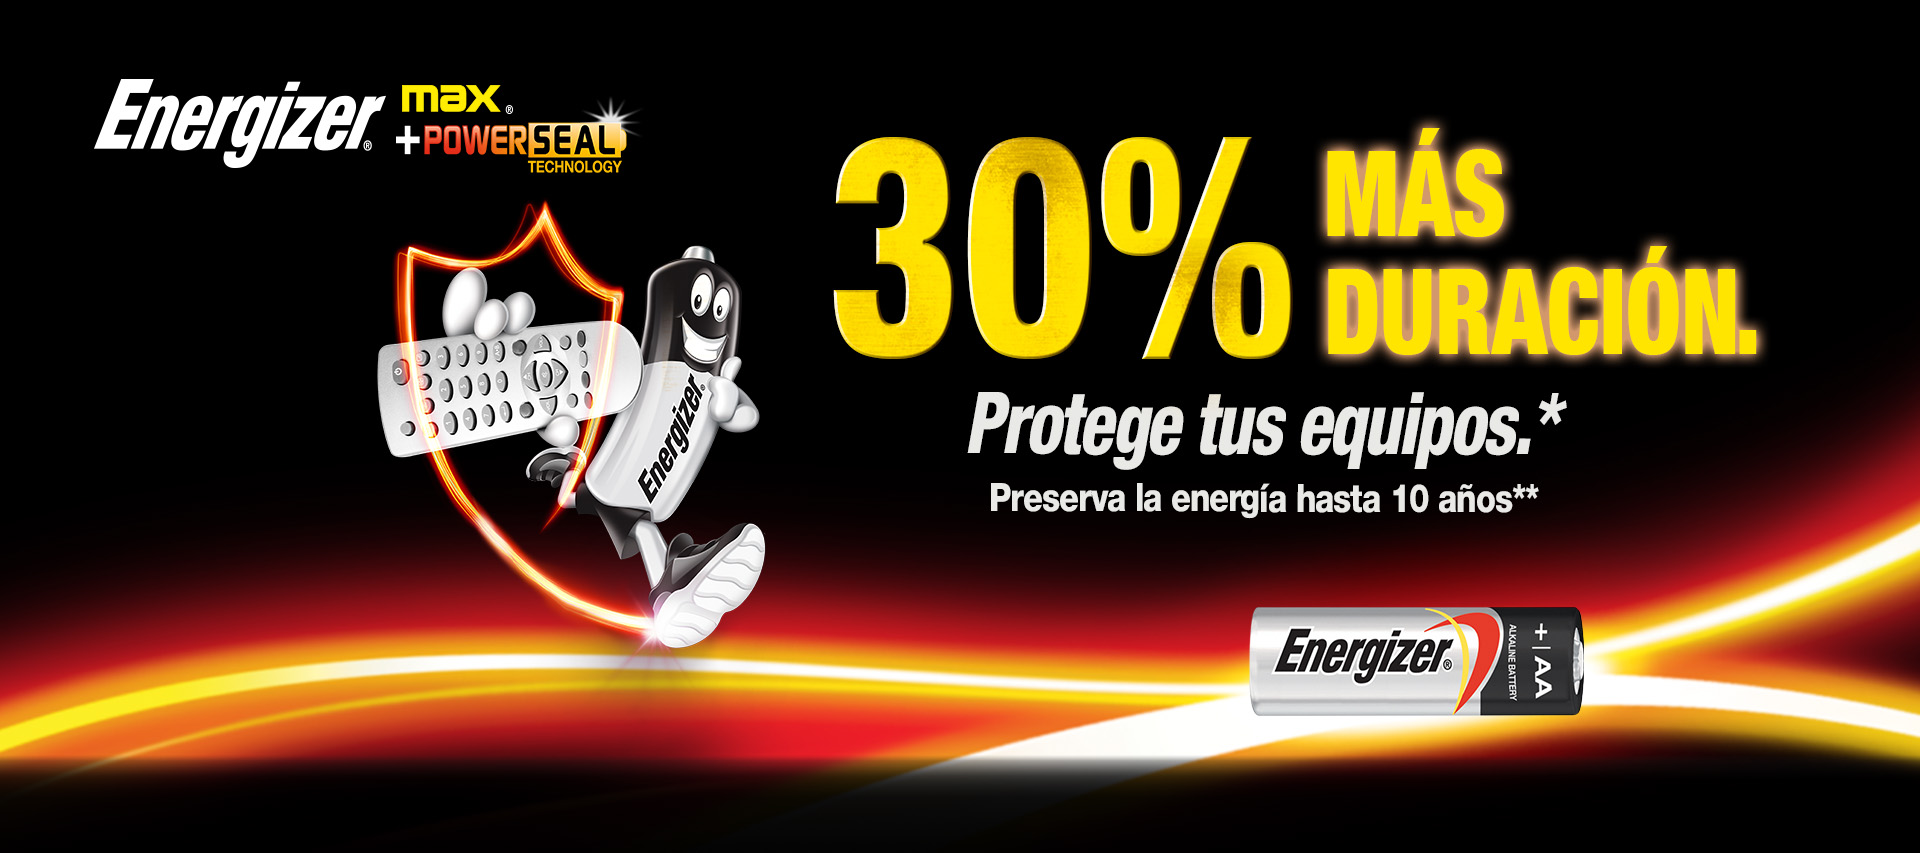
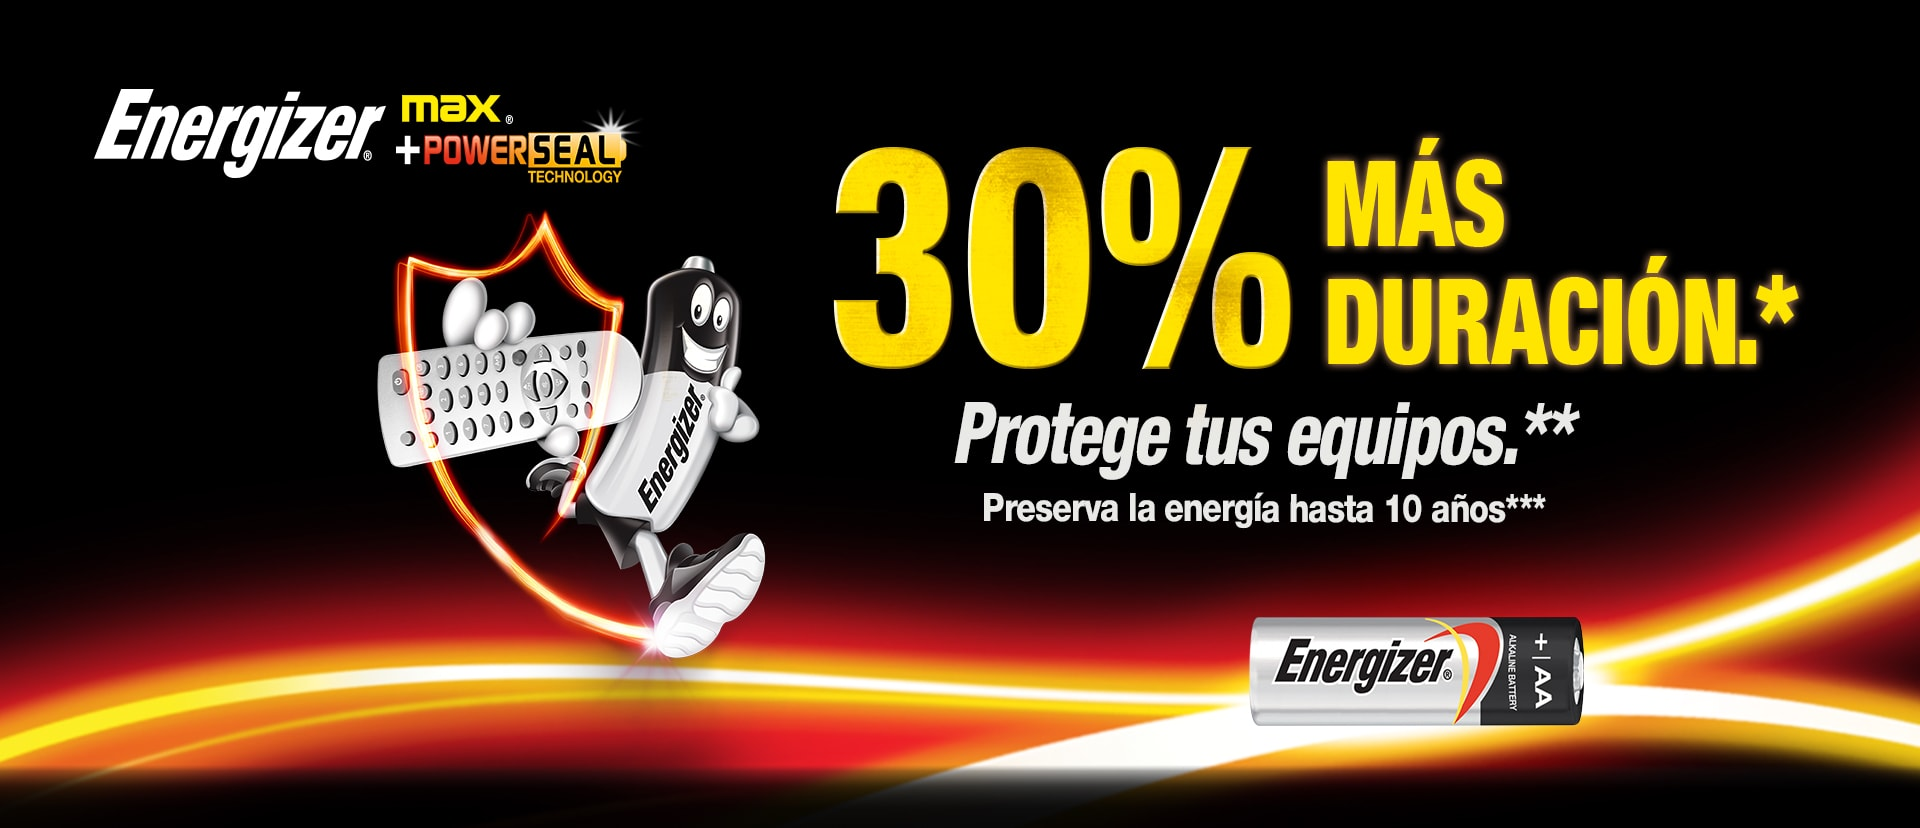
Actualización energizer

diff --git a/protected/views/campania/energizer-pilas-recargables.php b/protected/views/campania/energizer-pilas-recargables.php
@@ -46,14 +46,16 @@ $this->metaTags = "
       <a href="<?= Yii::app()->request->baseUrl ?>/pilas-recargables-energizer"><h4 style="margin-bottom: 0px;" class="btn-menu active"><span class="glyphicon glyphicon-menu-right" aria-hidden="true"></span>Línea recargable</h4></a>
     </center>
     <div class="lista" style="font-size: 17px;margin-top: 30px;line-height: 22px;">
-      <p>* Las Pilas Energizer Recargables Universal Tipo AA y AAA ahora contiene materiales de baterías recicladas.</p>
-      <p>* Se mantiene cargada hasta 1 año en almacenamiento.</p>
-      <p>* Primer Pila Recargable AA en el Mundo fabricada con baterías recicladas 4% baterías recicladas.</p>
-      <p>* Larga Duración.</p>
-      <p>* Carga hasta 1000 ciclos.</p>
-      <p>* Calidad, Confiabilidad.</p>
-      <p>* Responder en cualquier situación.</p>
-      <p>* Tiene una vida útil hasta de 5 años.</p>
+      <ul>
+        <li>Las Pilas Energizer Recargables Universal Tipo AA y AAA ahora contiene materiales de baterías recicladas.</li>
+        <li>Se mantiene cargada hasta 1 año en almacenamiento.</li>
+        <li>Primer Pila Recargable AA en el Mundo fabricada con baterías recicladas 4% baterías recicladas.</li>
+        <li>Larga Duración.</li>
+        <li>Carga hasta 1000 ciclos.</li>
+        <li>Calidad, Confiabilidad.</li>
+        <li>Responder en cualquier situación.</li>
+        <li>Tiene una vida útil hasta de 5 años.</li>
+      </ul>
     </div>
     <img style="width: 90%;margin: 35px auto 0;display: block;" src="<?= Yii::app()->request->baseUrl ?>/images/contenido/energizer/pilas-recargables/recargable-aa2.png" alt="Recargables AA2">
     <h3 style="color: #fff;font-size: 15px;margin: 0px auto 15px;text-align: center;">Pila Energizer recargable AA2</h3>
@@ -93,18 +95,22 @@ $this->metaTags = "
     <div class="row">
       <div class="col-sm-6 col-md-6">
         <div class="lista">
-          <p>* Las Pilas Energizer Recargables Universal Tipo AA y AAA ahora contiene materiales de baterías recicladas.</p>
-          <p>* Se mantiene cargada hasta 1 año en almacenamiento.</p>
-          <p>* Primer Pila Recargable AA en el Mundo fabricada con baterías recicladas 4% baterías recicladas.</p>
+          <ul style="padding-inline-start: 5px;">
+            <li>Las Pilas Energizer Recargables Universal Tipo AA y AAA ahora contiene materiales de baterías recicladas.</li>
+            <li>Se mantiene cargada hasta 1 año en almacenamiento.</li>
+            <li>Primer Pila Recargable AA en el Mundo fabricada con baterías recicladas 4% baterías recicladas.</li>
+          </ul>
         </div>
       </div>
       <div class="col-sm-6 col-md-6">
         <div class="lista">
-          <p>* Larga Duración.</p>
-          <p>* Carga hasta 1000 ciclos.</p>
-          <p>* Calidad, Confiabilidad.</p>
-          <p>* Responder en cualquier situación.</p>
-          <p>* Tiene una vida útil hasta de 5 años.</p>
+          <ul>
+            <li>Larga Duración.</li>
+            <li>Carga hasta 1000 ciclos.</li>
+            <li>Calidad, Confiabilidad.</li>
+            <li>Responder en cualquier situación.</li>
+            <li>Tiene una vida útil hasta de 5 años.</li>
+          </ul>
         </div>
       </div>
     </div>

diff --git a/protected/views/campania/energizer.php b/protected/views/campania/energizer.php
@@ -132,11 +132,11 @@ $this->metaTags = "<meta http-equiv='X-UA-Compatible' content='IE=edge'>
     <h2 style="font-size: 19px;letter-spacing: 1px;">significa que puedes estar seguro de que siempre tendrás energía cuando más la necesitas.</h2>
     <!-- <h3 style="font-size: 16px;">¡Energizer se enorgullece en presentar Power Seal Technology!</h3> -->
     <div class="lista" style="font-size: 17px;margin-top: 30px;line-height: 22px;">
-      <!-- <p>* La tecnología PoweSeal es un mensaje único en las pilas Energizer MAX AA & AAA.</p> -->
-      <!-- <p>* Es el resultado de varios años de investigación e innovación derivado de percerpciones del consumidor.</p> -->
-      <p>* La tecnología PowerSeal guarda la energía hasta por 10 años*** en almacenamiento.</p>
-      <p>* Ahora con hasta 30% de mayor duración* que las Energizer Max anteriores en cámaras digitales.</p>
-      <p>* Protege sus equipos** de las fugas hasta 2 años después del agotamiento total.</p>
+      <ul>
+        <li>La tecnología PowerSeal guarda la energía hasta por 10 años*** en almacenamiento.</li>
+        <li>Ahora con hasta 30% de mayor duración* que las Energizer Max anteriores en cámaras digitales.</li>
+        <li>Protege sus equipos** de las fugas hasta 2 años después del agotamiento total.</li>
+      </ul>
     </div>
     <p class="usos">Usos recomendados:</p>
     <img class="img-responsive-movil" src="<?= Yii::app()->request->baseUrl ?>/images/contenido/energizer/usos.png" alt="Usos">
@@ -171,13 +171,12 @@ $this->metaTags = "<meta http-equiv='X-UA-Compatible' content='IE=edge'>
     <a href="<?= Yii::app()->request->baseUrl ?>/pilas-recargables-energizer"><h4 class="btn-menu"><span class="glyphicon glyphicon-menu-right" aria-hidden="true"></span> Línea recargable</h4></a>
     <h1 class="first-title">Energizer max AA con tecnología PowerSeal plus</h1>
     <h2>significa que puedes estar seguro de que siempre tendrás energía cuando más la necesitas.</h2>
-    <!-- <h3>¡Energizer se enorgullece en presentar Power Seal Technology!</h3> -->
     <div class="lista" style="margin-bottom: 55px;">
-      <!-- <p>* La tecnología PoweSeal es un mensaje único en las pilas Energizer MAX AA & AAA.</p> -->
-      <!-- <p>* Es el resultado de varios años de investigación e innovación derivado de percerpciones del consumidor.</p> -->
-      <p>* La tecnología PowerSeal guarda la energía hasta por 10 años*** en almacenamiento.</p>
-      <p>* Ahora con hasta 30% de mayor duración* que las Energizer Max anteriores en cámaras digitales.</p>
-      <p>* Protege sus equipos** de las fugas hasta 2 años después del agotamiento total.</p>
+      <ul>
+        <li>La tecnología PowerSeal guarda la energía hasta por 10 años*** en almacenamiento.</li>
+        <li>Ahora con hasta 30% de mayor duración* que las Energizer Max anteriores en cámaras digitales.</li>
+        <li>Protege sus equipos** de las fugas hasta 2 años después del agotamiento total.</li>
+      </ul>
     </div>
     <div class="col-sm-4 col-md-4">
       <p class="usos">Usos recomendados:</p>

diff --git a/protected/views/campania/energizer-pilas-especiales.php b/protected/views/campania/energizer-pilas-especiales.php
@@ -46,9 +46,11 @@ $this->metaTags = "
       <a href="<?= Yii::app()->request->baseUrl ?>/pilas-recargables-energizer"><h4 style="margin-bottom: 0px;" class="btn-menu"><span class="glyphicon glyphicon-menu-right" aria-hidden="true"></span>Línea recargable</h4></a>
     </center>
     <div class="lista" style="font-size: 17px;margin-top: 30px;line-height: 22px;">
-      <p>* Tamaño más pequeño, menor consumo de energía.</p>
-      <p>* Energizer pilas especializadas la más elegida por consumidores en el mundo.</p>
-      <p>* Pequeñas en tamaño grandes en poder.</p>
+      <ul>
+        <li>Tamaño más pequeño, menor consumo de energía.</li>
+        <li>Energizer pilas especializadas la más elegida por consumidores en el mundo.</li>
+        <li>Pequeñas en tamaño grandes en poder.</li>
+      </ul>
     </div>
     <img style="width: 70%;margin: 35px auto 0;display: block;" src="<?= Yii::app()->request->baseUrl ?>/images/contenido/energizer/pilas-especiales/CR2032.png" alt="CR2032">
         <h3 style="color: #fff;font-size: 15px;margin: 0 auto 15px;text-align: center;">Pila especializada ECR 2032BP Energizer</h3>
@@ -84,9 +86,11 @@ $this->metaTags = "
     </div>
     <p><span class="first-title">Energizer</span><span class="sub-title"> Pilas especiales</span></p>
     <div class="lista">
-      <p>* Tamaño más pequeño, menor consumo de energía.</p>
-      <p>* Energizer pilas especializadas la más elegida por consumidores en el mundo.</p>
-      <p>* Pequeñas en tamaño grandes en poder.</p>
+      <ul>
+        <li>Tamaño más pequeño, menor consumo de energía.</li>
+        <li>Energizer pilas especializadas la más elegida por consumidores en el mundo.</li>
+        <li>Pequeñas en tamaño grandes en poder.</li>
+      </ul>
     </div>
     <div class="row" style="margin-top: 50px;">
       <div class="col-sm-2 col-md-2"></div>

diff --git a/protected/views/campania/energizer-pilas-auditivas.php b/protected/views/campania/energizer-pilas-auditivas.php
@@ -46,7 +46,9 @@ $this->metaTags = "
       <a href="<?= Yii::app()->request->baseUrl ?>/pilas-recargables-energizer"><h4 style="margin-bottom: 0px;" class="btn-menu"><span class="glyphicon glyphicon-menu-right" aria-hidden="true"></span>Línea recargable</h4></a>
     </center>
     <div class="lista" style="font-size: 17px;margin-top: 30px;line-height: 22px;">
-      <p>* Desempeño de Larga Duración y protege los aparatos contra derrame.</p>
+      <ul>
+        <li>Desempeño de Larga Duración y protege los aparatos contra derrame.</li>
+      </ul>
     </div>
     <img style="width: 90%;margin: 35px auto 0;display: block;" src="<?= Yii::app()->request->baseUrl ?>/images/contenido/energizer/pilas-auditivas/pilas-auditivas-675.png" alt="Pilas auditivas 675">
             <h3 style="color: #fff;font-size: 15px;margin: 0px auto 15px;text-align: center;">Pila Energizer auditiva AZ675E4</h3>
@@ -84,8 +86,9 @@ $this->metaTags = "
     </div>
     <p><span class="first-title">Energizer</span><span class="sub-title"> Pilas auditivas</span></p>
     <div class="lista">
-      <p>* Desempeño de Larga Duración y protege los aparatos contra derrame.</p>
-    </div>
+      <ul>
+        <li>Desempeño de Larga Duración y protege los aparatos contra derrame.</li>
+      </ul>    </div>
     <div class="row" style="margin-top: 50px;">
       <div class="col-sm-3 col-md-3" style="z-index:100;">
         <img class="img-responsive" src="<?= Yii::app()->request->baseUrl ?>/images/contenido/energizer/pilas-auditivas/pilas-auditivas-675.png" alt="Pilas auditivas 675">
